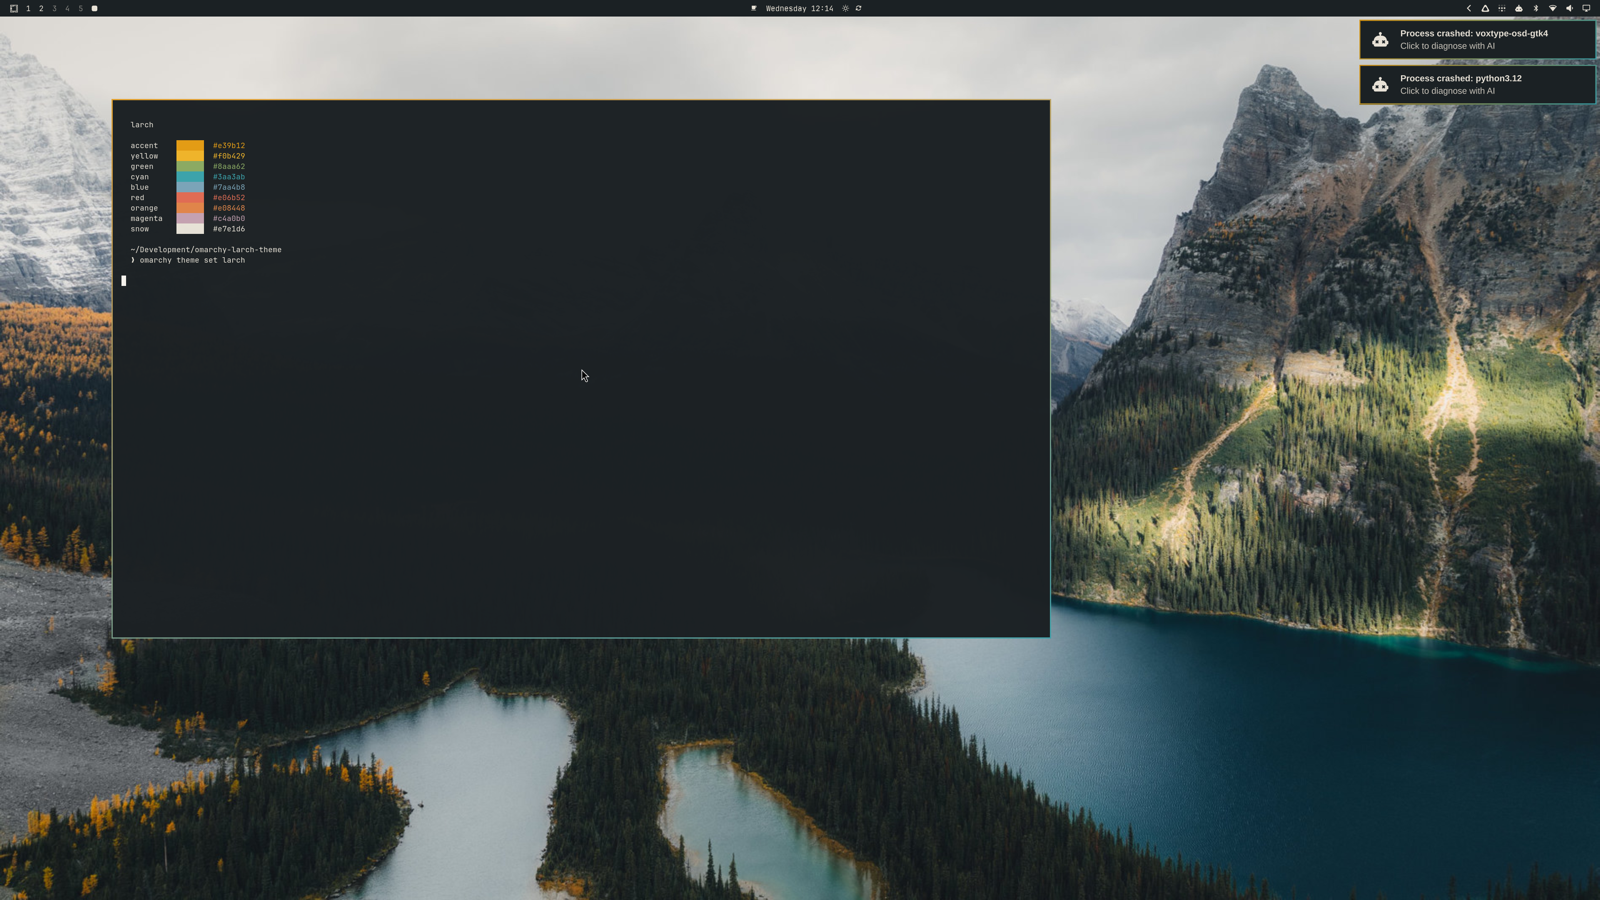
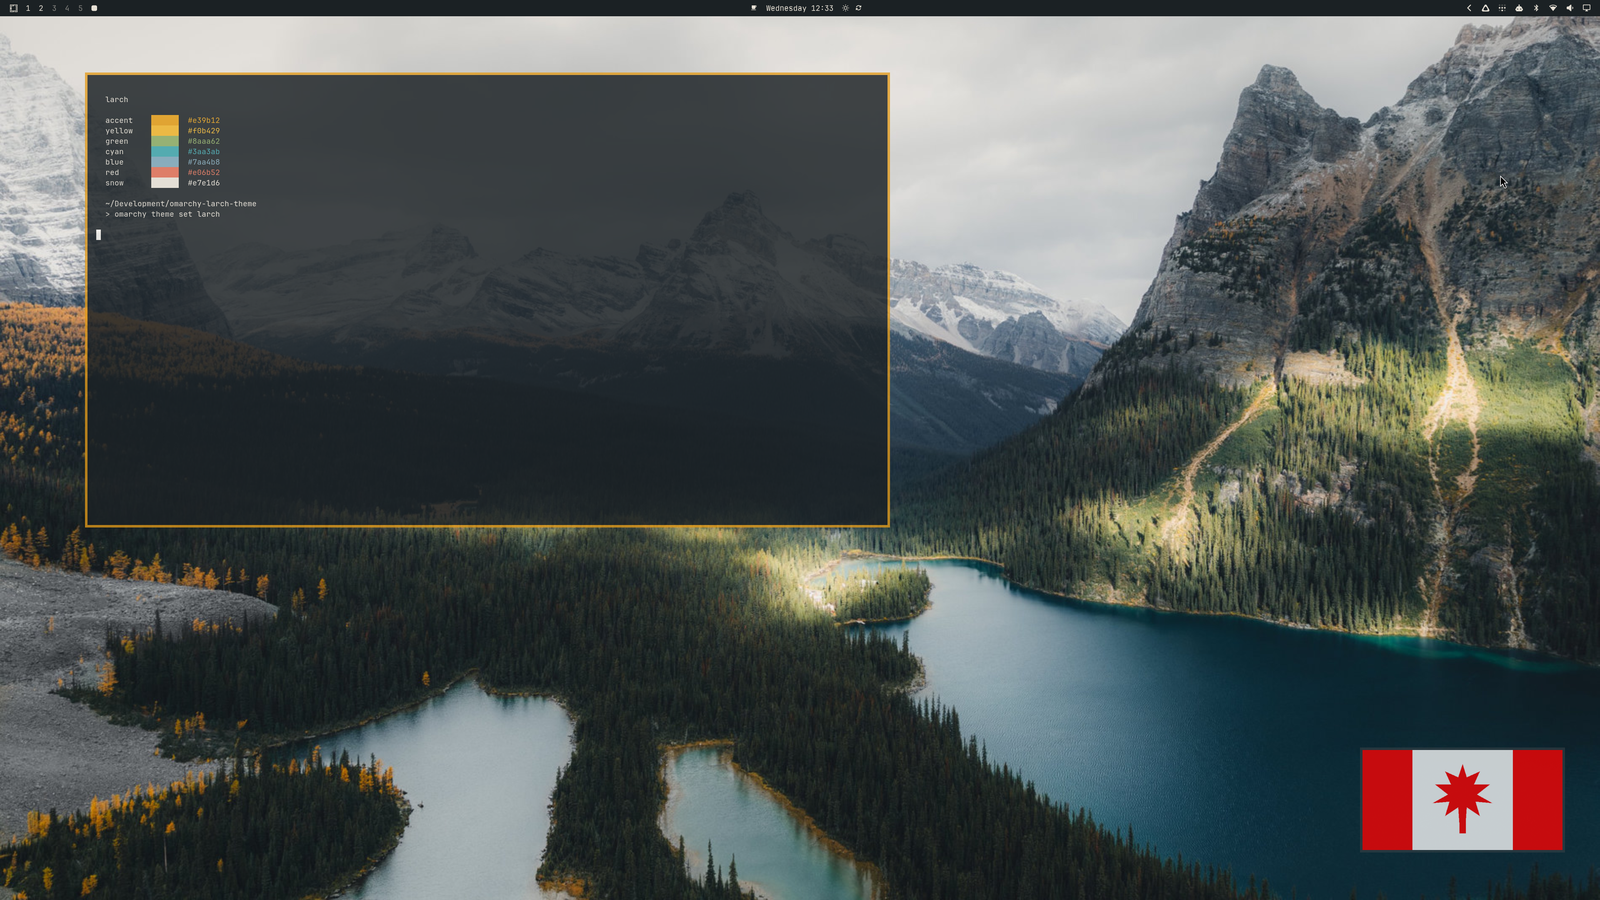
Use a solid gold window border.
The active border was a gold-to-teal gradient. It is now one color, larch gold, with flat stone on inactive windows. Gallery shots from loon match that, with glass and the flag in frame.

Changed region(s): [[0.0312, 0.0622, 0.6562, 0.7156], [0.8438, 0.8089, 1.0, 0.9644], [0.8438, 0.0, 1.0, 0.1244]]

diff --git a/README.md b/README.md
@@ -8,7 +8,7 @@ omarchy theme install https://github.com/nchudleigh/omarchy-larch-theme
 
 The theme shows up as **larch**. Cycle the four photographs with `omarchy theme bg next`.
 
-Shot on loon, the 4K desktop where this theme is installed.
+Shot on loon, the 4K desktop where this theme is installed. The window border is solid larch gold.
 
 ![Larch cliffs](gallery/loon-cliffs.png)
 
